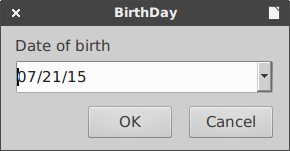
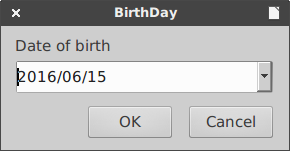
DateBox return the selected date in format YYYYMMDD

Changed region(s): [[0.0621, 0.4503, 0.3724, 0.5563]]

diff --git a/README.md b/README.md
@@ -236,22 +236,7 @@ Return: an integer/float or `None`
 #####DateBox
 Usage: DateBox(message="Choose a date", title='DateBox', format=3)
 
-Format: specifies the format of the displayed date.
-
-        0:   system short
-        1:   system short YY
-        2:   system short YYYY
-        3:   system long
-        4:   short DDMMYY
-        5:   short MMDDYY
-        6:   short YYMMDD
-        7:   short DDMMYYYY
-        8:   short MMDDYYYY
-        9:   short YYYYMMDD
-        10:  short YYMMDD DIN5008
-        11:  short YYYYMMDD DIN5008
-
-Return: the selected date
+Return: the selected date in format YYYYMMDD
 
 ![DateBox](resource/dialogs/DateBox.png)
 
